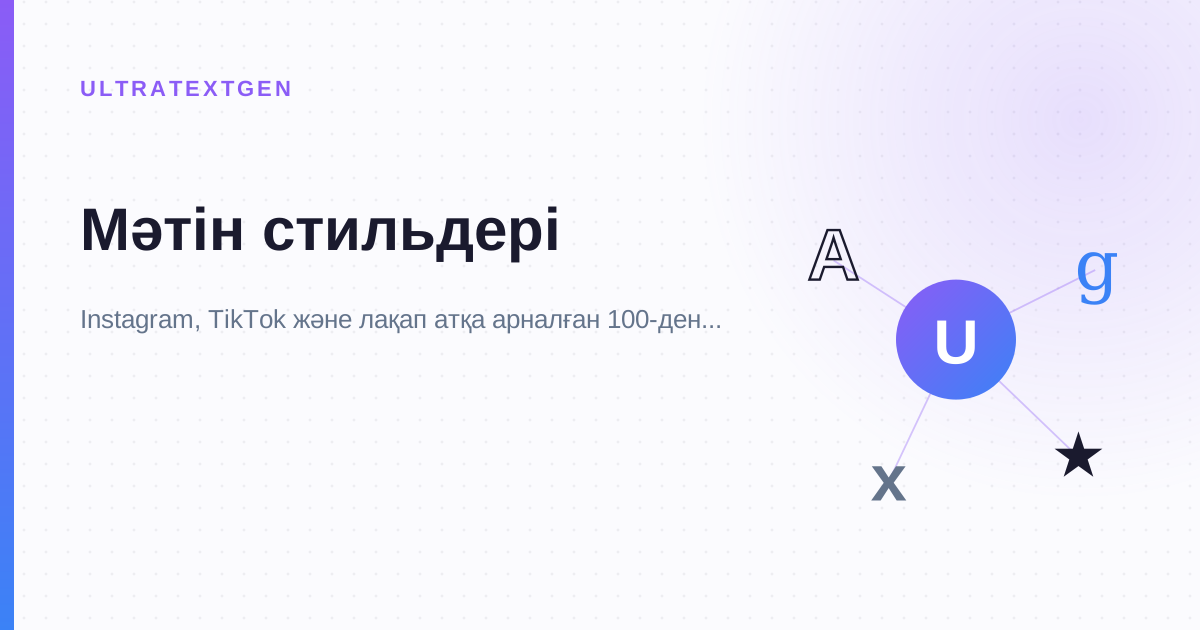
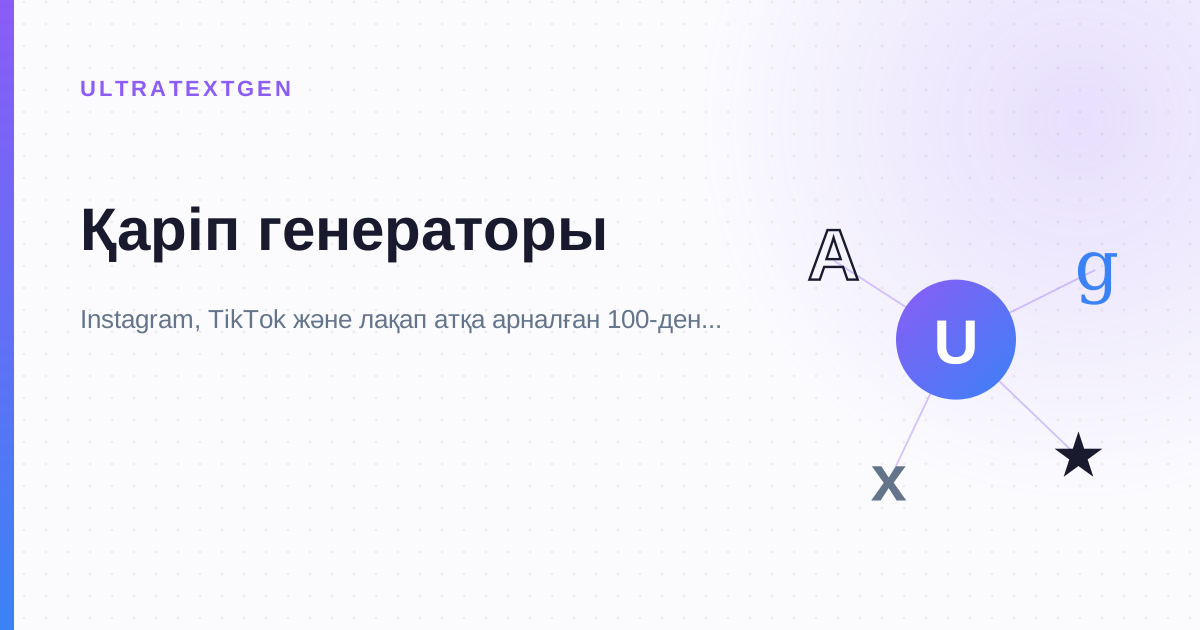
fix(kk): name the homepage tool «Қаріп генераторы», not «Мәтін стильдері» / «әдемі жазу»
Both phrases name a different job for Kazakh searchers. «Мәтін стильдері» is the
school topic of the functional styles of literary Kazakh (scientific, official,
literary, publicistic, conversational): every 'стиль' variant in the Kazakhstan
Semrush broad-match export (2026-11-18) is school stylistics, none pairs it with a
font word, and a web search returns stylistics lessons. «Әдемі жазу» is neat
handwriting (primary-school penmanship methodology). The page is one day old, so
no ranking is at stake.

Title, og/twitter title, image alt, H1, meta description, JSON-LD (alternateName,
description, HowTo, breadcrumb), the FAQ heading and question (visible and schema
together), sibling breadcrumbs and links on /kk/laqap-at-generatory/ and
/kk/syzylgan-matin/, the footer label; static footer, kk.png card, llms.txt and the
kk search index regenerated.

Claude-Session: https://claude.ai/code/session_011zoJG2M6knYiYWRETFsALK

Changed region(s): [[0.0617, 0.3317, 0.5242, 0.4222]]

diff --git a/kk/syzylgan-matin/index.html b/kk/syzylgan-matin/index.html
@@ -158,7 +158,7 @@ window.__h82AlnkH6D91__("WyJwdWItODI0MjMyNDE2NDQxMzk0NSIsW251bGwsbnVsbCxudWxsLCJ
   "@type": "BreadcrumbList",
   "itemListElement": [
     { "@type": "ListItem", "position": 1, "name": "UltraTextGen", "item": "https://ultratextgen.com/" },
-    { "@type": "ListItem", "position": 2, "name": "Мәтін стильдері", "item": "https://ultratextgen.com/kk/" },
+    { "@type": "ListItem", "position": 2, "name": "Қаріп генераторы", "item": "https://ultratextgen.com/kk/" },
     { "@type": "ListItem", "position": 3, "name": "Сызылған мәтін", "item": "https://ultratextgen.com/kk/syzylgan-matin/" }
   ]
 }
@@ -175,7 +175,7 @@ window.__h82AlnkH6D91__("WyJwdWItODI0MjMyNDE2NDQxMzk0NSIsW251bGwsbnVsbCxudWxsLCJ
 <nav class="breadcrumbs" aria-label="Навигациялық жол">
   <a href="/">UltraTextGen</a>
   <span class="breadcrumb-separator">›</span>
-  <a href="/kk/">Мәтін стильдері</a>
+  <a href="/kk/">Қаріп генераторы</a>
   <span class="breadcrumb-separator">›</span>
   <span class="breadcrumb-current">Сызылған мәтін</span>
 </nav>
@@ -223,7 +223,7 @@ window.__h82AlnkH6D91__("WyJwdWItODI0MjMyNDE2NDQxMzk0NSIsW251bGwsbnVsbCxudWxsLCJ
   <!-- Барлық қазақ әріптерінде -->
   <section class="editorial-section">
     <h2>Сызық барлық қазақ әріптерінде жұмыс істейді</h2>
-    <p class="editorial-intro">Әдемі жазу стильдерінің көбі қазақ әріптерін өзгертпейді, ал сызық әр әріпке түседі. Сайттың өз рендерерімен тексерілді: сызу, асты сызу және үсті сызу стильдерінің 16-сы әр қазақ әрпіне белгі қояды, ә, ғ, қ, ң, ө, ұ, ү, һ, і әріптерінің бас түріне де, кіші түріне де. Бірде-бір әріп сызықсыз қалмайды және бұзылмайды.</p>
+    <p class="editorial-intro">Әдемі қаріп стильдерінің көбі қазақ әріптерін өзгертпейді, ал сызық әр әріпке түседі. Сайттың өз рендерерімен тексерілді: сызу, асты сызу және үсті сызу стильдерінің 16-сы әр қазақ әрпіне белгі қояды, ә, ғ, қ, ң, ө, ұ, ү, һ, і әріптерінің бас түріне де, кіші түріне де. Бірде-бір әріп сызықсыз қалмайды және бұзылмайды.</p>
     <p>Бар құпия бір кішкентай таңбада: <strong>combining long stroke overlay</strong>, яғни U+0336. Бұл белгі жеке тұрмайды: ол алдындағы әріпке жабысып, үстінен сызық салады. Генератор әр таңбадан кейін U+0336 қояды, нәтижесінде с̶ы̶з̶ы̶л̶ғ̶а̶н̶ ̶м̶ә̶т̶і̶н̶ шығады. Ол кәдімгі мәтін болып қала береді: оны кез келген жерде көшіруге, қоюға және оқуға болады. Жуан, курсив немесе готикалық «қаріптер» басқаша: Unicode-та олар тек латынның A–Z әріптері мен 0–9 цифрлары үшін бар, сондықтан қазақ әріптері оларда өзгеріссіз қалады. Ал сызық кез келген таңбаға жабысады:</p>
     <ul class="u-mt-15">
       <li><strong>Қазақ әріптері</strong>: ә̶ ̶ғ̶ ̶қ̶ ̶ң̶ ̶ө̶ ̶ұ̶ ̶ү̶ ̶һ̶ ̶і̶ және Ә̶ ̶Ғ̶ ̶Қ̶ ̶Ң̶ ̶Ө̶ ̶Ұ̶ ̶Ү̶ ̶Һ̶ ̶І̶. Әр әріп өз сызығын алады.</li>
@@ -279,7 +279,7 @@ window.__h82AlnkH6D91__("WyJwdWItODI0MjMyNDE2NDQxMzk0NSIsW251bGwsbnVsbCxudWxsLCJ
       <strong>1. Қолданбаның өз пішімдеуі</strong>: Telegram мен Discord-та мәтінді екі тильдамен қоршаңыз: ~~болмайды~~ → <s>болмайды</s>. WhatsApp-та бір тильдамен: ~болмайды~. Бұл тез, бірақ тек чат пен жазба ішінде жұмыс істейді.<br><br>
       <strong>2. Unicode сызылған мәтіні (осы генератор)</strong>: сөздерді жоғарыда жазып, с̶ы̶з̶ы̶қ̶т̶ы̶ нұсқаны көшіріңіз де, кез келген жерге қойыңыз: профиль атына, күйге, Instagram профиль сипаттамасына немесе пікірге. Сызықты «өшіру» мүмкін емес: ол мәтіннің өзіне кіріп тұр.
     </div>
-    <p>Бір ескерту: сызылған әр әріп екі таңба болып саналады (әріптің өзі және сызық белгісі), қос сызықта үш таңба. Сондықтан 150 таңбалық Instagram профиль сипаттамасы екі есе тез толады. Мәтіннің сыятынын <a href="/kk/soz-sanau/">таңба және сөз санау</a> құралында тексеріңіз: ол көзге көрінетін әріптерді де, платформа санайтын таңбаларды да қатар көрсетеді. Лақап атқа сызық қосқыңыз келсе, <a href="/kk/laqap-at-generatory/">лақап ат генераторын</a> қараңыз, ал басқа стильдер, жақтаулар мен белгілер <a href="/kk/">мәтін стильдері</a> бетінде.</p>
+    <p>Бір ескерту: сызылған әр әріп екі таңба болып саналады (әріптің өзі және сызық белгісі), қос сызықта үш таңба. Сондықтан 150 таңбалық Instagram профиль сипаттамасы екі есе тез толады. Мәтіннің сыятынын <a href="/kk/soz-sanau/">таңба және сөз санау</a> құралында тексеріңіз: ол көзге көрінетін әріптерді де, платформа санайтын таңбаларды да қатар көрсетеді. Лақап атқа сызық қосқыңыз келсе, <a href="/kk/laqap-at-generatory/">лақап ат генераторын</a> қараңыз, ал басқа стильдер, жақтаулар мен белгілер <a href="/kk/">қаріп генераторы</a> бетінде.</p>
   </section>
 
   <!-- Қолданылуы -->
@@ -291,7 +291,7 @@ window.__h82AlnkH6D91__("WyJwdWItODI0MjMyNDE2NDQxMzk0NSIsW251bGwsbnVsbCxudWxsLCJ
       · <strong>Профиль сипаттамасы мен күй</strong>: «ескі тарау жабылды» тәсілі, мысалы 2̶0̶2̶5̶ → 2026<br>
       · <strong>Тізімдер</strong>: мақсаттар немесе тілектер тізімі, онда орындалған тармақ сызылады
     </div>
-    <p>Кеңес: сызу негізгі тағам емес, дәмдеуіш. Бір-екі сызылған сөз жанды көрінеді, ал тұтас сызылған абзацты оқу қиын. Сызылған сөздің жанына жүрек белгісін (♡) қойсаңыз, профиль сипаттамасы жылырақ көрінеді. Латын әріптеріне арналған жуан, курсив және басқа стильдер керек болса, <a href="/kk/">мәтін стильдері генераторына</a> оралыңыз.</p>
+    <p>Кеңес: сызу негізгі тағам емес, дәмдеуіш. Бір-екі сызылған сөз жанды көрінеді, ал тұтас сызылған абзацты оқу қиын. Сызылған сөздің жанына жүрек белгісін (♡) қойсаңыз, профиль сипаттамасы жылырақ көрінеді. Латын әріптеріне арналған жуан, курсив және басқа стильдер керек болса, <a href="/kk/">қаріп генераторына</a> оралыңыз.</p>
   </section>
     <h2 class="faq-category">Сызылған мәтін туралы сұрақтар</h2>
     <div class="faq-item"><button class="faq-question" type="button">Мәтінді қалай сызуға болады?<svg xmlns="http://www.w3.org/2000/svg" fill="none" viewBox="0 0 24 24" stroke="currentColor"><path stroke-linecap="round" stroke-linejoin="round" stroke-width="2" d="M19 9l-7 7-7-7"></path></svg></button><div class="faq-answer">Сөздерді жоғарыдағы генераторға жазыңыз: сервис әр таңбадан кейін «combining long stroke overlay» (U+0336) деген арнайы Unicode белгісін қояды, ол әріптің үстінен сызық салады. Нәтижесінде с̶ә̶л̶е̶м̶ сияқты сызылған мәтін шығады. Ол кәдімгі мәтін болып қала береді: оны белгілеп, көшіріп, кез келген жерге қоюға болады, профиль атына, күйге, профиль сипаттамасына немесе пікірге.</div></div>
@@ -320,7 +320,7 @@ window.__h82AlnkH6D91__("WyJwdWItODI0MjMyNDE2NDQxMzk0NSIsW251bGwsbnVsbCxudWxsLCJ
 <footer class="footer">
     <div class="footer-inner">
 <!-- BEGIN static footer — generated by scripts/build-static-footer.js from footer.js. Do not edit by hand — run `npm run build:static-footer`. -->
-<div class="footer-columns"><div class="footer-col"><span class="footer-col-title">Бөлімдер</span><a href="/kk/" class="footer-link">Басты бет</a><a href="/guide/" class="footer-link">Нұсқаулықтар</a><a href="/answers/" class="footer-link">Жауаптар</a><a href="/usecase/" class="footer-link">Қолдану</a><a href="/category/" class="footer-link">Санаттар</a><a href="/library/" class="footer-link">Кітапхана</a><a href="/printables/" class="footer-link">Басып шығаруға</a><a href="/events/" class="footer-link">Оқиғалар</a></div><div class="footer-col"><span class="footer-col-title">Танымал құралдар</span><a href="/kk/laqap-at-generatory/" class="footer-link">Лақап ат генераторы</a><a href="/kk/korinbeitin-matin/" class="footer-link">Көрінбейтін мәтін</a><a href="/kk/soz-sanau/" class="footer-link">Таңба және сөз санау</a></div><div class="footer-col"><span class="footer-col-title">Танымал стильдер</span><a href="/kk/" class="footer-link">Мәтін стильдері</a><a href="/kk/syzylgan-matin/" class="footer-link">Сызылған мәтін</a><a href="/category/bold-fonts/" class="footer-link">Жуан қаріп</a><a href="/category/italic-fonts/" class="footer-link">Курсив</a><a href="/category/gothic-fonts/" class="footer-link">Готика қаріпі</a></div><div class="footer-col"><span class="footer-col-title">Компания</span><a href="/about/" class="footer-link">Біз туралы</a><a href="/privacy/" class="footer-link">Құпиялылық саясаты</a><a href="/terms/" class="footer-link">Пайдалану шарттары</a><a href="/contact/" class="footer-link">Байланыс</a></div></div><div class="footer-social-links"><a href="https://www.youtube.com/@UltraTextGen" class="footer-link" target="_blank" rel="noopener noreferrer">YouTube</a><a href="https://www.facebook.com/profile.php?id=61588587387596" class="footer-link" target="_blank" rel="noopener noreferrer">Facebook</a><a href="https://www.linkedin.com/company/71290348/" class="footer-link" target="_blank" rel="noopener noreferrer">LinkedIn</a><a href="https://x.com/UltraTextGen" class="footer-link" target="_blank" rel="noopener noreferrer">X</a></div><div class="footer-bottom">© 2026 UltraTextGen. Барлық жерде жұмыс істейтін әдемі мәтін.</div>
+<div class="footer-columns"><div class="footer-col"><span class="footer-col-title">Бөлімдер</span><a href="/kk/" class="footer-link">Басты бет</a><a href="/guide/" class="footer-link">Нұсқаулықтар</a><a href="/answers/" class="footer-link">Жауаптар</a><a href="/usecase/" class="footer-link">Қолдану</a><a href="/category/" class="footer-link">Санаттар</a><a href="/library/" class="footer-link">Кітапхана</a><a href="/printables/" class="footer-link">Басып шығаруға</a><a href="/events/" class="footer-link">Оқиғалар</a></div><div class="footer-col"><span class="footer-col-title">Танымал құралдар</span><a href="/kk/laqap-at-generatory/" class="footer-link">Лақап ат генераторы</a><a href="/kk/korinbeitin-matin/" class="footer-link">Көрінбейтін мәтін</a><a href="/kk/soz-sanau/" class="footer-link">Таңба және сөз санау</a></div><div class="footer-col"><span class="footer-col-title">Танымал стильдер</span><a href="/kk/" class="footer-link">Қаріп генераторы</a><a href="/kk/syzylgan-matin/" class="footer-link">Сызылған мәтін</a><a href="/category/bold-fonts/" class="footer-link">Жуан қаріп</a><a href="/category/italic-fonts/" class="footer-link">Курсив</a><a href="/category/gothic-fonts/" class="footer-link">Готика қаріпі</a></div><div class="footer-col"><span class="footer-col-title">Компания</span><a href="/about/" class="footer-link">Біз туралы</a><a href="/privacy/" class="footer-link">Құпиялылық саясаты</a><a href="/terms/" class="footer-link">Пайдалану шарттары</a><a href="/contact/" class="footer-link">Байланыс</a></div></div><div class="footer-social-links"><a href="https://www.youtube.com/@UltraTextGen" class="footer-link" target="_blank" rel="noopener noreferrer">YouTube</a><a href="https://www.facebook.com/profile.php?id=61588587387596" class="footer-link" target="_blank" rel="noopener noreferrer">Facebook</a><a href="https://www.linkedin.com/company/71290348/" class="footer-link" target="_blank" rel="noopener noreferrer">LinkedIn</a><a href="https://x.com/UltraTextGen" class="footer-link" target="_blank" rel="noopener noreferrer">X</a></div><div class="footer-bottom">© 2026 UltraTextGen. Барлық жерде жұмыс істейтін әдемі мәтін.</div>
 <!-- END static footer -->
 </div>
   </footer>

diff --git a/kk/index.html b/kk/index.html
@@ -47,8 +47,8 @@ window.__h82AlnkH6D91__("WyJwdWItODI0MjMyNDE2NDQxMzk0NSIsW251bGwsbnVsbCxudWxsLCJ
        crossorigin="anonymous"></script>
 <meta charset="UTF-8">
 <meta name="viewport" content="width=device-width, initial-scale=1.0">
-<title>Мәтін стильдері: әдемі жазу және әдемі әріптер</title>
-<meta name="description" content="Instagram, TikTok және лақап атқа арналған 100-ден астам мәтін стильдері мен әдемі қаріптер. Сызу мен асты сызу қазақ әріптерінде де жұмыс істейді.">
+<title>Қаріп генераторы: әдемі әріптерді онлайн көшіру</title>
+<meta name="description" content="Instagram, TikTok және лақап атқа арналған 100-ден астам әдемі қаріп стилі. Сызу мен асты сызу қазақ әріптерінде де жұмыс істейді.">
 
 <link rel="canonical" href="https://ultratextgen.com/kk/">
 
@@ -90,7 +90,7 @@ window.__h82AlnkH6D91__("WyJwdWItODI0MjMyNDE2NDQxMzk0NSIsW251bGwsbnVsbCxudWxsLCJ
 <meta name="robots" content="index, follow">
 
 <meta property="og:site_name" content="UltraTextGen">
-<meta property="og:title" content="Мәтін стильдері: әдемі жазу және әдемі әріптер">
+<meta property="og:title" content="Қаріп генераторы: әдемі әріптерді онлайн көшіру">
 <meta property="og:description" content="Instagram, TikTok және лақап атқа арналған 100-ден астам Unicode стилі. Латын әріптері жуан не готикалық болады, ал сызу қазақ әріптеріне де түседі.">
 <meta property="og:url" content="https://ultratextgen.com/kk/">
 <meta property="og:type" content="website">
@@ -98,11 +98,11 @@ window.__h82AlnkH6D91__("WyJwdWItODI0MjMyNDE2NDQxMzk0NSIsW251bGwsbnVsbCxudWxsLCJ
 <meta property="og:image:width" content="1200">
 <meta property="og:image:height" content="630">
 <meta property="og:image:type" content="image/png">
-<meta property="og:image:alt" content="Мәтін стильдері: әдемі жазу және әдемі әріптер">
+<meta property="og:image:alt" content="Қаріп генераторы: әдемі әріптерді онлайн көшіру">
 <meta property="og:locale" content="kk_KZ">
 
 <meta name="twitter:card" content="summary_large_image">
-<meta name="twitter:title" content="Мәтін стильдері: әдемі жазу және әдемі әріптер">
+<meta name="twitter:title" content="Қаріп генераторы: әдемі әріптерді онлайн көшіру">
 <meta name="twitter:description" content="Instagram, TikTok және лақап атқа арналған 100-ден астам Unicode стилі. Латын әріптері жуан не готикалық болады, ал сызу қазақ әріптеріне де түседі.">
 <meta name="twitter:image" content="https://ultratextgen.com/assets/og/kk.png">
 
@@ -148,8 +148,8 @@ window.__h82AlnkH6D91__("WyJwdWItODI0MjMyNDE2NDQxMzk0NSIsW251bGwsbnVsbCxudWxsLCJ
     "@type": "WebApplication",
     "name": "UltraTextGen",
     "alternateName": [
-      "мәтін стильдері",
-      "әдемі жазу",
+      "қаріп генераторы",
+      "әдемі қаріптер",
       "әдемі әріптер",
       "қаріптер",
       "лақап атқа арналған қаріп"
@@ -164,7 +164,7 @@ window.__h82AlnkH6D91__("WyJwdWItODI0MjMyNDE2NDQxMzk0NSIsW251bGwsbnVsbCxudWxsLCJ
       "price": "0",
       "priceCurrency": "USD"
     },
-    "description": "Мәтін стильдері генераторы: латын әріптері мен цифрлар жуан, қолжазба, готикалық немесе көпіршікті Unicode қаріпіне айналады, оны Instagram профилінің сипаттамасына, TikTok сипаттамасына немесе ойындағы лақап атқа қоюға болады.",
+    "description": "Қаріп генераторы: латын әріптері мен цифрлар жуан, қолжазба, готикалық немесе көпіршікті Unicode қаріпіне айналады, оны Instagram профилінің сипаттамасына, TikTok сипаттамасына немесе ойындағы лақап атқа қоюға болады.",
     "image": "https://ultratextgen.com/assets/og/kk.png"
   }
 ]
@@ -173,7 +173,7 @@ window.__h82AlnkH6D91__("WyJwdWItODI0MjMyNDE2NDQxMzk0NSIsW251bGwsbnVsbCxudWxsLCJ
 {
   "@context": "https://schema.org",
   "@type": "HowTo",
-  "name": "Мәтін стильдері генераторын қалай пайдалануға болады",
+  "name": "Қаріп генераторын қалай пайдалануға болады",
   "description": "Қарапайым мәтінді әдемі қаріпке айналдырып, Instagram профилінің сипаттамасына, TikTok сипаттамасына немесе ойындағы лақап атқа қалай қоюға болады.",
   "totalTime": "PT1M",
   "step": [
@@ -213,7 +213,7 @@ window.__h82AlnkH6D91__("WyJwdWItODI0MjMyNDE2NDQxMzk0NSIsW251bGwsbnVsbCxudWxsLCJ
     {
       "@type": "ListItem",
       "position": 2,
-      "name": "Мәтін стильдері",
+      "name": "Қаріп генераторы",
       "item": "https://ultratextgen.com/kk/"
     }
   ]
@@ -226,7 +226,7 @@ window.__h82AlnkH6D91__("WyJwdWItODI0MjMyNDE2NDQxMzk0NSIsW251bGwsbnVsbCxudWxsLCJ
   "mainEntity": [
     {
       "@type": "Question",
-      "name": "Мәтін стильдері генераторы деген не және ол қалай жұмыс істейді?",
+      "name": "Қаріп генераторы деген не және ол қалай жұмыс істейді?",
       "acceptedAnswer": {
         "@type": "Answer",
         "text": "Генератор латын әріптері мен цифрларды жуан, қолжазба, готикалық немесе көпіршікті қаріпке ұқсайтын Unicode таңбаларымен ауыстырады. Бұл сурет емес, кәдімгі мәтін, сондықтан қойғаннан кейін Instagram, TikTok немесе ойында бірдей көрінеді. Мысал hello → 𝗵𝗲𝗹𝗹𝗼 (жуан), 𝒽ℯ𝓁𝓁ℴ (қолжазба), ⓗⓔⓛⓛⓞ (көпіршікті), 𝔥𝔢𝔩𝔩𝔬 (готикалық)"
@@ -350,7 +350,7 @@ window.__h82AlnkH6D91__("WyJwdWItODI0MjMyNDE2NDQxMzk0NSIsW251bGwsbnVsbCxudWxsLCJ
   <section class="hero">
     <div class="hero-inner">
       <div class="hero-card">
-        <h1 class="hero-headline">Мәтін стильдері: әдемі жазу генераторы</h1>
+        <h1 class="hero-headline">Қаріп генераторы: әдемі әріптер онлайн</h1>
         <p class="hero-tagline">Мәтінді енгізіп, оны Instagram, TikTok немесе ойындағы лақап ат үшін жуан, қолжазба, готикалық не көпіршікті қаріппен көшіріңіз. Бұл стильдер латын әріптері мен цифрларды өзгертеді, ал сызу мен асты сызу қазақ әріптеріне де түседі.</p>
         <div class="input-wrapper">
           <textarea class="main-input" id="mainInput" placeholder="Мәтінді осында енгізіңіз..." maxlength="500" autofocus=""></textarea>
@@ -570,10 +570,10 @@ window.__h82AlnkH6D91__("WyJwdWItODI0MjMyNDE2NDQxMzk0NSIsW251bGwsbnVsbCxudWxsLCJ
   <section class="faq-section-wrapper" aria-label="Жиі қойылатын сұрақтар">
     <div class="faq-inner">
 
-<h2 class="faq-category">Мәтін стильдері генераторы қалай жұмыс істейді</h2>
+<h2 class="faq-category">Қаріп генераторы қалай жұмыс істейді</h2>
 <div class="faq-item">
   <button class="faq-question" type="button">
-    <span>Мәтін стильдері генераторы деген не және ол қалай жұмыс істейді?</span>
+    <span>Қаріп генераторы деген не және ол қалай жұмыс істейді?</span>
     <svg xmlns="http://www.w3.org/2000/svg" fill="none" viewBox="0 0 24 24" stroke="currentColor">
       <path stroke-linecap="round" stroke-linejoin="round" stroke-width="2" d="M19 9l-7 7-7-7"></path>
     </svg>
@@ -731,7 +731,7 @@ window.__h82AlnkH6D91__("WyJwdWItODI0MjMyNDE2NDQxMzk0NSIsW251bGwsbnVsbCxudWxsLCJ
         <a class="lang-option active" href="/kk/" hreflang="kk">KK</a>
       </div>
 <!-- BEGIN static footer — generated by scripts/build-static-footer.js from footer.js. Do not edit by hand — run `npm run build:static-footer`. -->
-<div class="footer-columns"><div class="footer-col"><span class="footer-col-title">Бөлімдер</span><a href="/kk/" class="footer-link">Басты бет</a><a href="/guide/" class="footer-link">Нұсқаулықтар</a><a href="/answers/" class="footer-link">Жауаптар</a><a href="/usecase/" class="footer-link">Қолдану</a><a href="/category/" class="footer-link">Санаттар</a><a href="/library/" class="footer-link">Кітапхана</a><a href="/printables/" class="footer-link">Басып шығаруға</a><a href="/events/" class="footer-link">Оқиғалар</a></div><div class="footer-col"><span class="footer-col-title">Танымал құралдар</span><a href="/kk/laqap-at-generatory/" class="footer-link">Лақап ат генераторы</a><a href="/kk/korinbeitin-matin/" class="footer-link">Көрінбейтін мәтін</a><a href="/kk/soz-sanau/" class="footer-link">Таңба және сөз санау</a></div><div class="footer-col"><span class="footer-col-title">Танымал стильдер</span><a href="/kk/" class="footer-link">Мәтін стильдері</a><a href="/kk/syzylgan-matin/" class="footer-link">Сызылған мәтін</a><a href="/category/bold-fonts/" class="footer-link">Жуан қаріп</a><a href="/category/italic-fonts/" class="footer-link">Курсив</a><a href="/category/gothic-fonts/" class="footer-link">Готика қаріпі</a></div><div class="footer-col"><span class="footer-col-title">Компания</span><a href="/about/" class="footer-link">Біз туралы</a><a href="/privacy/" class="footer-link">Құпиялылық саясаты</a><a href="/terms/" class="footer-link">Пайдалану шарттары</a><a href="/contact/" class="footer-link">Байланыс</a></div></div><div class="footer-social-links"><a href="https://www.youtube.com/@UltraTextGen" class="footer-link" target="_blank" rel="noopener noreferrer">YouTube</a><a href="https://www.facebook.com/profile.php?id=61588587387596" class="footer-link" target="_blank" rel="noopener noreferrer">Facebook</a><a href="https://www.linkedin.com/company/71290348/" class="footer-link" target="_blank" rel="noopener noreferrer">LinkedIn</a><a href="https://x.com/UltraTextGen" class="footer-link" target="_blank" rel="noopener noreferrer">X</a></div><div class="footer-bottom">© 2026 UltraTextGen. Барлық жерде жұмыс істейтін әдемі мәтін.</div>
+<div class="footer-columns"><div class="footer-col"><span class="footer-col-title">Бөлімдер</span><a href="/kk/" class="footer-link">Басты бет</a><a href="/guide/" class="footer-link">Нұсқаулықтар</a><a href="/answers/" class="footer-link">Жауаптар</a><a href="/usecase/" class="footer-link">Қолдану</a><a href="/category/" class="footer-link">Санаттар</a><a href="/library/" class="footer-link">Кітапхана</a><a href="/printables/" class="footer-link">Басып шығаруға</a><a href="/events/" class="footer-link">Оқиғалар</a></div><div class="footer-col"><span class="footer-col-title">Танымал құралдар</span><a href="/kk/laqap-at-generatory/" class="footer-link">Лақап ат генераторы</a><a href="/kk/korinbeitin-matin/" class="footer-link">Көрінбейтін мәтін</a><a href="/kk/soz-sanau/" class="footer-link">Таңба және сөз санау</a></div><div class="footer-col"><span class="footer-col-title">Танымал стильдер</span><a href="/kk/" class="footer-link">Қаріп генераторы</a><a href="/kk/syzylgan-matin/" class="footer-link">Сызылған мәтін</a><a href="/category/bold-fonts/" class="footer-link">Жуан қаріп</a><a href="/category/italic-fonts/" class="footer-link">Курсив</a><a href="/category/gothic-fonts/" class="footer-link">Готика қаріпі</a></div><div class="footer-col"><span class="footer-col-title">Компания</span><a href="/about/" class="footer-link">Біз туралы</a><a href="/privacy/" class="footer-link">Құпиялылық саясаты</a><a href="/terms/" class="footer-link">Пайдалану шарттары</a><a href="/contact/" class="footer-link">Байланыс</a></div></div><div class="footer-social-links"><a href="https://www.youtube.com/@UltraTextGen" class="footer-link" target="_blank" rel="noopener noreferrer">YouTube</a><a href="https://www.facebook.com/profile.php?id=61588587387596" class="footer-link" target="_blank" rel="noopener noreferrer">Facebook</a><a href="https://www.linkedin.com/company/71290348/" class="footer-link" target="_blank" rel="noopener noreferrer">LinkedIn</a><a href="https://x.com/UltraTextGen" class="footer-link" target="_blank" rel="noopener noreferrer">X</a></div><div class="footer-bottom">© 2026 UltraTextGen. Барлық жерде жұмыс істейтін әдемі мәтін.</div>
 <!-- END static footer -->
 </div>
   </footer>

diff --git a/kk/laqap-at-generatory/index.html b/kk/laqap-at-generatory/index.html
@@ -155,7 +155,7 @@ window.__h82AlnkH6D91__("WyJwdWItODI0MjMyNDE2NDQxMzk0NSIsW251bGwsbnVsbCxudWxsLCJ
     {
       "@type": "ListItem",
       "position": 2,
-      "name": "Мәтін стильдері",
+      "name": "Қаріп генераторы",
       "item": "https://ultratextgen.com/kk/"
     },
     {
@@ -209,7 +209,7 @@ window.__h82AlnkH6D91__("WyJwdWItODI0MjMyNDE2NDQxMzk0NSIsW251bGwsbnVsbCxudWxsLCJ
 <nav class="breadcrumbs" aria-label="Навигациялық жол">
   <a href="/">UltraTextGen</a>
   <span class="breadcrumb-separator">›</span>
-  <a href="/kk/">Мәтін стильдері</a>
+  <a href="/kk/">Қаріп генераторы</a>
   <span class="breadcrumb-separator">›</span>
   <span class="breadcrumb-current">Лақап ат генераторы</span>
 </nav>
@@ -396,7 +396,7 @@ window.__h82AlnkH6D91__("WyJwdWItODI0MjMyNDE2NDQxMzk0NSIsW251bGwsbnVsbCxudWxsLCJ
   </div>
 
   <h3>Қыздарға арналған лақап аттар</h3>
-  <p class="uname-note">Эстетика: ұшқындар, жұлдызшалар және жұмсақ жақтаулар. Жүрек қосқыңыз келсе, <a href="/kk/">мәтін стильдері</a> бетіндегі жүрек белгілерін қараңыз.</p>
+  <p class="uname-note">Эстетика: ұшқындар, жұлдызшалар және жұмсақ жақтаулар. Жүрек қосқыңыз келсе, <a href="/kk/">қаріп генераторы</a> бетіндегі жүрек белгілерін қараңыз.</p>
   <div class="uname-grid">
     <button class="uname-chip symbol-tile" data-symbol="✧˖°Шолпан°˖✧" aria-label="Лақап атты көшіру">✧˖°Шолпан°˖✧</button>
     <button class="uname-chip symbol-tile" data-symbol="꧁✿Айым✿꧂" aria-label="Лақап атты көшіру">꧁✿Айым✿꧂</button>
@@ -444,7 +444,7 @@ window.__h82AlnkH6D91__("WyJwdWItODI0MjMyNDE2NDQxMzk0NSIsW251bGwsbnVsbCxudWxsLCJ
 <section class="editorial-section" id="niky-dlia-ihor">
   <h2>Standoff 2, PUBG Mobile және Brawl Stars үшін лақап аттар</h2>
   <p>Көп танымал ойындарда лақап ат шамамен 3-тен 20 таңбаға дейінгі еркін көрсетілетін ат болып табылады, ал ꧁꧂ мен ★彡 сияқты жақтаулар онда әдетте өтеді. Әр ойынның нақты шегі өзінше және кейде жаңартулармен өзгереді, сондықтан Standoff 2, PUBG Mobile, Free Fire, Roblox және Discord үшін <a href="#name-check">жоғарыдағы лақап атты тексеруді</a> пайдаланыңыз, ал басқа ойындарда алдымен лақап атты ат өзгерту өрісіне қойып, ойынның оны қабылдайтынын көріңіз.</p>
-  <p>Бос лақап ат немесе кәдімгі бос орынға тыйым салынған жерде бос орын керек пе? Таңбаны <a href="/kk/korinbeitin-matin/">көрінбейтін мәтін</a> бетінен алыңыз. Ал Telegram не TikTok профиліндегі атты <a href="/kk/">мәтін стильдері</a> генераторында безендіруге болады: ережелер сол, жақтаулар кириллицамен, қаріптер латынмен жұмыс істейді.</p>
+  <p>Бос лақап ат немесе кәдімгі бос орынға тыйым салынған жерде бос орын керек пе? Таңбаны <a href="/kk/korinbeitin-matin/">көрінбейтін мәтін</a> бетінен алыңыз. Ал Telegram не TikTok профиліндегі атты <a href="/kk/">қаріп генераторында</a> безендіруге болады: ережелер сол, жақтаулар кириллицамен, қаріптер латынмен жұмыс істейді.</p>
 </section>
 
 <div class="section-divider"></div>
@@ -458,7 +458,7 @@ window.__h82AlnkH6D91__("WyJwdWItODI0MjMyNDE2NDQxMzk0NSIsW251bGwsbnVsbCxudWxsLCJ
       <p>Кәдімгі бос орынға тыйым салынған жерде лақап аттағы бос орынға арналған бос таңба.</p>
     </a>
     <a href="/kk/" class="compare-card variant-muted u-no-underline">
-      <h4>Мәтін стильдері</h4>
+      <h4>Қаріп генераторы</h4>
       <p>Латын әріптеріне арналған жуан, жазба, готикалық және тағы 100-ден астам стиль.</p>
     </a>
   </div>
@@ -468,7 +468,7 @@ window.__h82AlnkH6D91__("WyJwdWItODI0MjMyNDE2NDQxMzk0NSIsW251bGwsbnVsbCxudWxsLCJ
   <footer class="footer">
     <div class="footer-inner">
 <!-- BEGIN static footer — generated by scripts/build-static-footer.js from footer.js. Do not edit by hand — run `npm run build:static-footer`. -->
-<div class="footer-columns"><div class="footer-col"><span class="footer-col-title">Бөлімдер</span><a href="/kk/" class="footer-link">Басты бет</a><a href="/guide/" class="footer-link">Нұсқаулықтар</a><a href="/answers/" class="footer-link">Жауаптар</a><a href="/usecase/" class="footer-link">Қолдану</a><a href="/category/" class="footer-link">Санаттар</a><a href="/library/" class="footer-link">Кітапхана</a><a href="/printables/" class="footer-link">Басып шығаруға</a><a href="/events/" class="footer-link">Оқиғалар</a></div><div class="footer-col"><span class="footer-col-title">Танымал құралдар</span><a href="/kk/laqap-at-generatory/" class="footer-link">Лақап ат генераторы</a><a href="/kk/korinbeitin-matin/" class="footer-link">Көрінбейтін мәтін</a><a href="/kk/soz-sanau/" class="footer-link">Таңба және сөз санау</a></div><div class="footer-col"><span class="footer-col-title">Танымал стильдер</span><a href="/kk/" class="footer-link">Мәтін стильдері</a><a href="/kk/syzylgan-matin/" class="footer-link">Сызылған мәтін</a><a href="/category/bold-fonts/" class="footer-link">Жуан қаріп</a><a href="/category/italic-fonts/" class="footer-link">Курсив</a><a href="/category/gothic-fonts/" class="footer-link">Готика қаріпі</a></div><div class="footer-col"><span class="footer-col-title">Компания</span><a href="/about/" class="footer-link">Біз туралы</a><a href="/privacy/" class="footer-link">Құпиялылық саясаты</a><a href="/terms/" class="footer-link">Пайдалану шарттары</a><a href="/contact/" class="footer-link">Байланыс</a></div></div><div class="footer-social-links"><a href="https://www.youtube.com/@UltraTextGen" class="footer-link" target="_blank" rel="noopener noreferrer">YouTube</a><a href="https://www.facebook.com/profile.php?id=61588587387596" class="footer-link" target="_blank" rel="noopener noreferrer">Facebook</a><a href="https://www.linkedin.com/company/71290348/" class="footer-link" target="_blank" rel="noopener noreferrer">LinkedIn</a><a href="https://x.com/UltraTextGen" class="footer-link" target="_blank" rel="noopener noreferrer">X</a></div><div class="footer-bottom">© 2026 UltraTextGen. Барлық жерде жұмыс істейтін әдемі мәтін.</div>
+<div class="footer-columns"><div class="footer-col"><span class="footer-col-title">Бөлімдер</span><a href="/kk/" class="footer-link">Басты бет</a><a href="/guide/" class="footer-link">Нұсқаулықтар</a><a href="/answers/" class="footer-link">Жауаптар</a><a href="/usecase/" class="footer-link">Қолдану</a><a href="/category/" class="footer-link">Санаттар</a><a href="/library/" class="footer-link">Кітапхана</a><a href="/printables/" class="footer-link">Басып шығаруға</a><a href="/events/" class="footer-link">Оқиғалар</a></div><div class="footer-col"><span class="footer-col-title">Танымал құралдар</span><a href="/kk/laqap-at-generatory/" class="footer-link">Лақап ат генераторы</a><a href="/kk/korinbeitin-matin/" class="footer-link">Көрінбейтін мәтін</a><a href="/kk/soz-sanau/" class="footer-link">Таңба және сөз санау</a></div><div class="footer-col"><span class="footer-col-title">Танымал стильдер</span><a href="/kk/" class="footer-link">Қаріп генераторы</a><a href="/kk/syzylgan-matin/" class="footer-link">Сызылған мәтін</a><a href="/category/bold-fonts/" class="footer-link">Жуан қаріп</a><a href="/category/italic-fonts/" class="footer-link">Курсив</a><a href="/category/gothic-fonts/" class="footer-link">Готика қаріпі</a></div><div class="footer-col"><span class="footer-col-title">Компания</span><a href="/about/" class="footer-link">Біз туралы</a><a href="/privacy/" class="footer-link">Құпиялылық саясаты</a><a href="/terms/" class="footer-link">Пайдалану шарттары</a><a href="/contact/" class="footer-link">Байланыс</a></div></div><div class="footer-social-links"><a href="https://www.youtube.com/@UltraTextGen" class="footer-link" target="_blank" rel="noopener noreferrer">YouTube</a><a href="https://www.facebook.com/profile.php?id=61588587387596" class="footer-link" target="_blank" rel="noopener noreferrer">Facebook</a><a href="https://www.linkedin.com/company/71290348/" class="footer-link" target="_blank" rel="noopener noreferrer">LinkedIn</a><a href="https://x.com/UltraTextGen" class="footer-link" target="_blank" rel="noopener noreferrer">X</a></div><div class="footer-bottom">© 2026 UltraTextGen. Барлық жерде жұмыс істейтін әдемі мәтін.</div>
 <!-- END static footer -->
 </div>
   </footer>

diff --git a/kk/korinbeitin-matin/index.html b/kk/korinbeitin-matin/index.html
@@ -588,7 +588,7 @@ window.__h82AlnkH6D91__("WyJwdWItODI0MjMyNDE2NDQxMzk0NSIsW251bGwsbnVsbCxudWxsLCJ
 <footer class="footer">
   <div class="footer-inner">
 <!-- BEGIN static footer — generated by scripts/build-static-footer.js from footer.js. Do not edit by hand — run `npm run build:static-footer`. -->
-<div class="footer-columns"><div class="footer-col"><span class="footer-col-title">Бөлімдер</span><a href="/kk/" class="footer-link">Басты бет</a><a href="/guide/" class="footer-link">Нұсқаулықтар</a><a href="/answers/" class="footer-link">Жауаптар</a><a href="/usecase/" class="footer-link">Қолдану</a><a href="/category/" class="footer-link">Санаттар</a><a href="/library/" class="footer-link">Кітапхана</a><a href="/printables/" class="footer-link">Басып шығаруға</a><a href="/events/" class="footer-link">Оқиғалар</a></div><div class="footer-col"><span class="footer-col-title">Танымал құралдар</span><a href="/kk/laqap-at-generatory/" class="footer-link">Лақап ат генераторы</a><a href="/kk/korinbeitin-matin/" class="footer-link">Көрінбейтін мәтін</a><a href="/kk/soz-sanau/" class="footer-link">Таңба және сөз санау</a></div><div class="footer-col"><span class="footer-col-title">Танымал стильдер</span><a href="/kk/" class="footer-link">Мәтін стильдері</a><a href="/kk/syzylgan-matin/" class="footer-link">Сызылған мәтін</a><a href="/category/bold-fonts/" class="footer-link">Жуан қаріп</a><a href="/category/italic-fonts/" class="footer-link">Курсив</a><a href="/category/gothic-fonts/" class="footer-link">Готика қаріпі</a></div><div class="footer-col"><span class="footer-col-title">Компания</span><a href="/about/" class="footer-link">Біз туралы</a><a href="/privacy/" class="footer-link">Құпиялылық саясаты</a><a href="/terms/" class="footer-link">Пайдалану шарттары</a><a href="/contact/" class="footer-link">Байланыс</a></div></div><div class="footer-social-links"><a href="https://www.youtube.com/@UltraTextGen" class="footer-link" target="_blank" rel="noopener noreferrer">YouTube</a><a href="https://www.facebook.com/profile.php?id=61588587387596" class="footer-link" target="_blank" rel="noopener noreferrer">Facebook</a><a href="https://www.linkedin.com/company/71290348/" class="footer-link" target="_blank" rel="noopener noreferrer">LinkedIn</a><a href="https://x.com/UltraTextGen" class="footer-link" target="_blank" rel="noopener noreferrer">X</a></div><div class="footer-bottom">© 2026 UltraTextGen. Барлық жерде жұмыс істейтін әдемі мәтін.</div>
+<div class="footer-columns"><div class="footer-col"><span class="footer-col-title">Бөлімдер</span><a href="/kk/" class="footer-link">Басты бет</a><a href="/guide/" class="footer-link">Нұсқаулықтар</a><a href="/answers/" class="footer-link">Жауаптар</a><a href="/usecase/" class="footer-link">Қолдану</a><a href="/category/" class="footer-link">Санаттар</a><a href="/library/" class="footer-link">Кітапхана</a><a href="/printables/" class="footer-link">Басып шығаруға</a><a href="/events/" class="footer-link">Оқиғалар</a></div><div class="footer-col"><span class="footer-col-title">Танымал құралдар</span><a href="/kk/laqap-at-generatory/" class="footer-link">Лақап ат генераторы</a><a href="/kk/korinbeitin-matin/" class="footer-link">Көрінбейтін мәтін</a><a href="/kk/soz-sanau/" class="footer-link">Таңба және сөз санау</a></div><div class="footer-col"><span class="footer-col-title">Танымал стильдер</span><a href="/kk/" class="footer-link">Қаріп генераторы</a><a href="/kk/syzylgan-matin/" class="footer-link">Сызылған мәтін</a><a href="/category/bold-fonts/" class="footer-link">Жуан қаріп</a><a href="/category/italic-fonts/" class="footer-link">Курсив</a><a href="/category/gothic-fonts/" class="footer-link">Готика қаріпі</a></div><div class="footer-col"><span class="footer-col-title">Компания</span><a href="/about/" class="footer-link">Біз туралы</a><a href="/privacy/" class="footer-link">Құпиялылық саясаты</a><a href="/terms/" class="footer-link">Пайдалану шарттары</a><a href="/contact/" class="footer-link">Байланыс</a></div></div><div class="footer-social-links"><a href="https://www.youtube.com/@UltraTextGen" class="footer-link" target="_blank" rel="noopener noreferrer">YouTube</a><a href="https://www.facebook.com/profile.php?id=61588587387596" class="footer-link" target="_blank" rel="noopener noreferrer">Facebook</a><a href="https://www.linkedin.com/company/71290348/" class="footer-link" target="_blank" rel="noopener noreferrer">LinkedIn</a><a href="https://x.com/UltraTextGen" class="footer-link" target="_blank" rel="noopener noreferrer">X</a></div><div class="footer-bottom">© 2026 UltraTextGen. Барлық жерде жұмыс істейтін әдемі мәтін.</div>
 <!-- END static footer -->
 </div>
 </footer>

diff --git a/kk/soz-sanau/index.html b/kk/soz-sanau/index.html
@@ -446,7 +446,7 @@ window.__h82AlnkH6D91__("WyJwdWItODI0MjMyNDE2NDQxMzk0NSIsW251bGwsbnVsbCxudWxsLCJ
 
 <footer class="footer"><div class="footer-inner">
 <!-- BEGIN static footer — generated by scripts/build-static-footer.js from footer.js. Do not edit by hand — run `npm run build:static-footer`. -->
-<div class="footer-columns"><div class="footer-col"><span class="footer-col-title">Бөлімдер</span><a href="/kk/" class="footer-link">Басты бет</a><a href="/guide/" class="footer-link">Нұсқаулықтар</a><a href="/answers/" class="footer-link">Жауаптар</a><a href="/usecase/" class="footer-link">Қолдану</a><a href="/category/" class="footer-link">Санаттар</a><a href="/library/" class="footer-link">Кітапхана</a><a href="/printables/" class="footer-link">Басып шығаруға</a><a href="/events/" class="footer-link">Оқиғалар</a></div><div class="footer-col"><span class="footer-col-title">Танымал құралдар</span><a href="/kk/laqap-at-generatory/" class="footer-link">Лақап ат генераторы</a><a href="/kk/korinbeitin-matin/" class="footer-link">Көрінбейтін мәтін</a><a href="/kk/soz-sanau/" class="footer-link">Таңба және сөз санау</a></div><div class="footer-col"><span class="footer-col-title">Танымал стильдер</span><a href="/kk/" class="footer-link">Мәтін стильдері</a><a href="/kk/syzylgan-matin/" class="footer-link">Сызылған мәтін</a><a href="/category/bold-fonts/" class="footer-link">Жуан қаріп</a><a href="/category/italic-fonts/" class="footer-link">Курсив</a><a href="/category/gothic-fonts/" class="footer-link">Готика қаріпі</a></div><div class="footer-col"><span class="footer-col-title">Компания</span><a href="/about/" class="footer-link">Біз туралы</a><a href="/privacy/" class="footer-link">Құпиялылық саясаты</a><a href="/terms/" class="footer-link">Пайдалану шарттары</a><a href="/contact/" class="footer-link">Байланыс</a></div></div><div class="footer-social-links"><a href="https://www.youtube.com/@UltraTextGen" class="footer-link" target="_blank" rel="noopener noreferrer">YouTube</a><a href="https://www.facebook.com/profile.php?id=61588587387596" class="footer-link" target="_blank" rel="noopener noreferrer">Facebook</a><a href="https://www.linkedin.com/company/71290348/" class="footer-link" target="_blank" rel="noopener noreferrer">LinkedIn</a><a href="https://x.com/UltraTextGen" class="footer-link" target="_blank" rel="noopener noreferrer">X</a></div><div class="footer-bottom">© 2026 UltraTextGen. Барлық жерде жұмыс істейтін әдемі мәтін.</div>
+<div class="footer-columns"><div class="footer-col"><span class="footer-col-title">Бөлімдер</span><a href="/kk/" class="footer-link">Басты бет</a><a href="/guide/" class="footer-link">Нұсқаулықтар</a><a href="/answers/" class="footer-link">Жауаптар</a><a href="/usecase/" class="footer-link">Қолдану</a><a href="/category/" class="footer-link">Санаттар</a><a href="/library/" class="footer-link">Кітапхана</a><a href="/printables/" class="footer-link">Басып шығаруға</a><a href="/events/" class="footer-link">Оқиғалар</a></div><div class="footer-col"><span class="footer-col-title">Танымал құралдар</span><a href="/kk/laqap-at-generatory/" class="footer-link">Лақап ат генераторы</a><a href="/kk/korinbeitin-matin/" class="footer-link">Көрінбейтін мәтін</a><a href="/kk/soz-sanau/" class="footer-link">Таңба және сөз санау</a></div><div class="footer-col"><span class="footer-col-title">Танымал стильдер</span><a href="/kk/" class="footer-link">Қаріп генераторы</a><a href="/kk/syzylgan-matin/" class="footer-link">Сызылған мәтін</a><a href="/category/bold-fonts/" class="footer-link">Жуан қаріп</a><a href="/category/italic-fonts/" class="footer-link">Курсив</a><a href="/category/gothic-fonts/" class="footer-link">Готика қаріпі</a></div><div class="footer-col"><span class="footer-col-title">Компания</span><a href="/about/" class="footer-link">Біз туралы</a><a href="/privacy/" class="footer-link">Құпиялылық саясаты</a><a href="/terms/" class="footer-link">Пайдалану шарттары</a><a href="/contact/" class="footer-link">Байланыс</a></div></div><div class="footer-social-links"><a href="https://www.youtube.com/@UltraTextGen" class="footer-link" target="_blank" rel="noopener noreferrer">YouTube</a><a href="https://www.facebook.com/profile.php?id=61588587387596" class="footer-link" target="_blank" rel="noopener noreferrer">Facebook</a><a href="https://www.linkedin.com/company/71290348/" class="footer-link" target="_blank" rel="noopener noreferrer">LinkedIn</a><a href="https://x.com/UltraTextGen" class="footer-link" target="_blank" rel="noopener noreferrer">X</a></div><div class="footer-bottom">© 2026 UltraTextGen. Барлық жерде жұмыс істейтін әдемі мәтін.</div>
 <!-- END static footer -->
 </div></footer>
 

diff --git a/footer.js b/footer.js
@@ -1056,7 +1056,7 @@
         { label: "Таңба және сөз санау", href: "/kk/soz-sanau/" }
       ],
       categories: [
-        { label: "Мәтін стильдері", href: "/kk/" },
+        { label: "Қаріп генераторы", href: "/kk/" },
         { label: "Сызылған мәтін", href: "/kk/syzylgan-matin/" },
         { label: "Жуан қаріп", href: "/category/bold-fonts/" },
         { label: "Курсив", href: "/category/italic-fonts/" },
